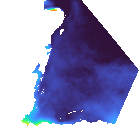
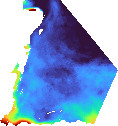
fix: align DHW and SST rasters perfectly to SAM cutline, use annual max for DHW and annual mean for SST

diff --git a/src/dashboard/map_layers.py b/src/dashboard/map_layers.py
@@ -80,7 +80,7 @@ def create_base_map(center_lat: float = 18.5,
         folium.raster_layers.ImageOverlay(
             name=f"SST - NOAA/CRW{label_suffix}",
             image=sst_uri,
-            bounds=[[15.70, -88.95], [22.40, -83.05]],
+            bounds=[[15.70, -88.95], [22.00, -83.05]],
             opacity=0.80,
             overlay=True,
             control=True,
@@ -93,7 +93,7 @@ def create_base_map(center_lat: float = 18.5,
         folium.raster_layers.ImageOverlay(
             name=f"DHW - NOAA CRW{label_suffix}",
             image=dhw_uri,
-            bounds=[[15.70, -88.90], [22.35, -83.10]],
+            bounds=[[15.70, -88.95], [22.00, -83.05]],
             opacity=0.80,
             overlay=True,
             control=True,
